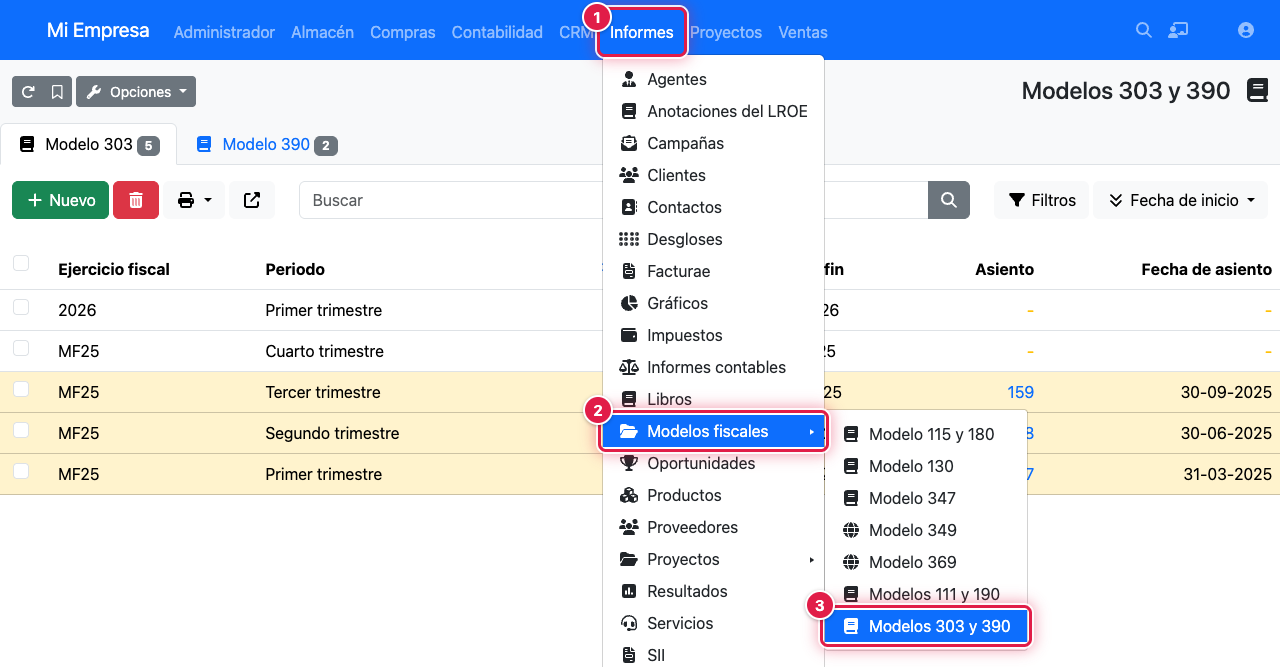
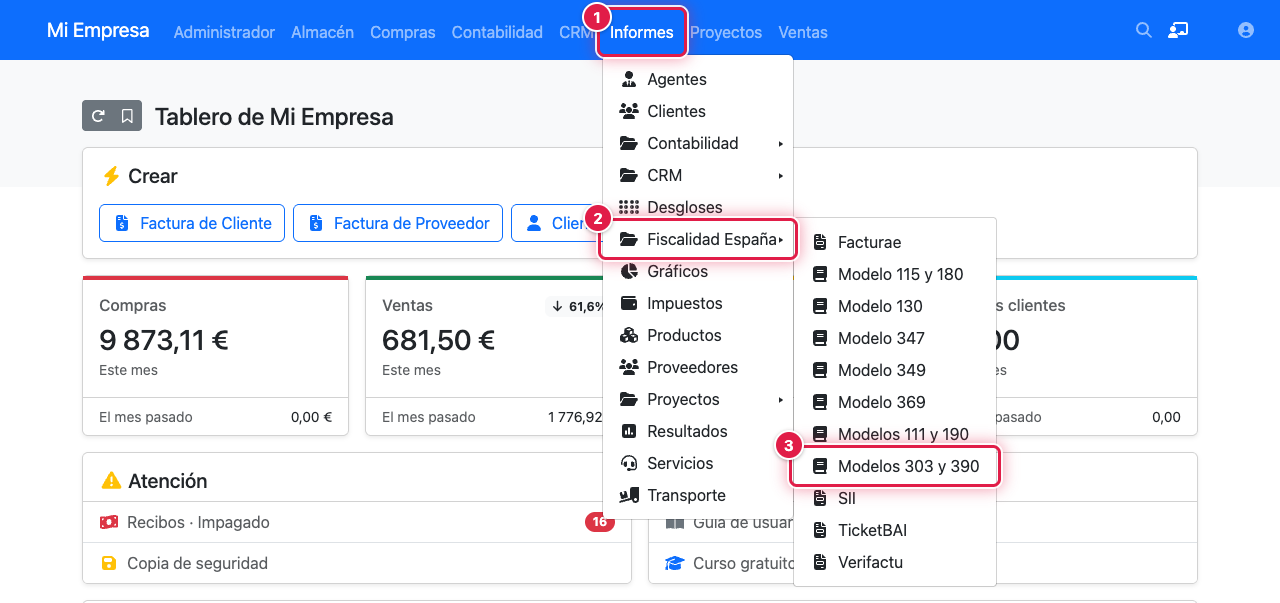
fix(modelo303): mover el informe al submenú Fiscalidad España
- Los controladores de listado y de edición cuelgan del submenú taxation-spain en lugar de tax-models.
- Se añade la traducción taxation-spain (Fiscalidad España) a es_ES.
- README, documentación de usuario, de desarrollo y de contexto nombran la nueva ruta: Informes → Fiscalidad España → Modelos 303 y 390.
- Se regeneran las tres capturas del menú y se añaden sus escenarios capturas.json.

diff --git a/Controller/ListRegularizacionImpuesto.php b/Controller/ListRegularizacionImpuesto.php
@@ -32,7 +32,7 @@ use FacturaScripts\Core\Where;
 class ListRegularizacionImpuesto extends ListController
 {
     /**
-     * Datos de la página: cuelga del menú Informes, en el submenú de modelos fiscales.
+     * Datos de la página: cuelga del menú Informes, en el submenú Fiscalidad España.
      *
      * @return array
      */
@@ -40,7 +40,7 @@ class ListRegularizacionImpuesto extends ListController
     {
         $data = parent::getPageData();
         $data['menu'] = 'reports';
-        $data['submenu'] = 'tax-models';
+        $data['submenu'] = 'taxation-spain';
         $data['title'] = 'model-303-390';
         $data['icon'] = 'fa-solid fa-book';
         return $data;

diff --git a/Controller/EditRegularizacionImpuesto.php b/Controller/EditRegularizacionImpuesto.php
@@ -85,7 +85,7 @@ class EditRegularizacionImpuesto extends EditController
     {
         $data = parent::getPageData();
         $data['menu'] = 'reports';
-        $data['submenu'] = 'tax-models';
+        $data['submenu'] = 'taxation-spain';
         $data['title'] = $this->annualTitle ? 'model-390' : 'model-303';
         $data['icon'] = 'fa-solid fa-balance-scale-right';
         return $data;

diff --git a/Doc/Dev/estructura-del-plugin-modelo-303.md b/Doc/Dev/estructura-del-plugin-modelo-303.md
@@ -1,6 +1,6 @@
 El plugin Modelo303 calcula las casillas del modelo 303 (autoliquidación trimestral o mensual del IVA) y del modelo 390 (resumen anual) **a partir de las partidas de los asientos contables**, y las comparte entre la pantalla, los ficheros de la AEAT, la exportación y la API. Esta página explica cómo se reparte el código, qué añade el plugin a la tabla de regularizaciones y cómo usarlo o extenderlo desde otro plugin.
 
-La pantalla está en **menú Informes** → **Modelos fiscales** → **Modelos 303 y 390**: el listado muestra las regularizaciones de IVA y cada una se abre en su ficha. Las trimestrales y mensuales muestran el modelo 303; la anual (periodo `Y`) muestra el modelo 390. El endpoint de solo lectura está explicado en [API REST de los modelos 303 y 390](api-modelo-303-y-390.md).
+La pantalla está en **menú Informes** → **Fiscalidad España** → **Modelos 303 y 390**: el listado muestra las regularizaciones de IVA y cada una se abre en su ficha. Las trimestrales y mensuales muestran el modelo 303; la anual (periodo `Y`) muestra el modelo 390. El endpoint de solo lectura está explicado en [API REST de los modelos 303 y 390](api-modelo-303-y-390.md).
 
 ## 1. Piezas del plugin
 
@@ -63,7 +63,7 @@ El controlador nombra los ficheros `<NIF>_<año>_<periodo>.303` y `<NIF>_<año>_
 
 ## 3. El controlador de la ficha
 
-`FacturaScripts\Plugins\Modelo303\Controller\EditRegularizacionImpuesto` extiende `EditController`, cuelga del menú `reports` y el submenú `tax-models` y trabaja sobre el modelo `RegularizacionImpuesto` del core. En `execPreviousAction()` atiende estas acciones:
+`FacturaScripts\Plugins\Modelo303\Controller\EditRegularizacionImpuesto` extiende `EditController`, cuelga del menú `reports` y el submenú `taxation-spain` y trabaja sobre el modelo `RegularizacionImpuesto` del core. En `execPreviousAction()` atiende estas acciones:
 
 | Acción | Qué hace |
 |---|---|

diff --git a/Doc/Dev/api-modelo-303-y-390.md b/Doc/Dev/api-modelo-303-y-390.md
@@ -1,4 +1,4 @@
-El plugin Modelo303 expone el cálculo de los modelos 303 (autoliquidación trimestral o mensual del IVA) y 390 (resumen anual) en dos endpoints de solo lectura de la API REST: `GET /api/3/modelo303` y `GET /api/3/modelo390`. Calculan con las mismas clases que la pantalla de la regularización y que los ficheros de la AEAT, así que las cifras coinciden con las que se ven en **menú Informes** → **Modelos fiscales** → **Modelos 303 y 390**. No crean asientos, no guardan regularizaciones y no generan ficheros.
+El plugin Modelo303 expone el cálculo de los modelos 303 (autoliquidación trimestral o mensual del IVA) y 390 (resumen anual) en dos endpoints de solo lectura de la API REST: `GET /api/3/modelo303` y `GET /api/3/modelo390`. Calculan con las mismas clases que la pantalla de la regularización y que los ficheros de la AEAT, así que las cifras coinciden con las que se ven en **menú Informes** → **Fiscalidad España** → **Modelos 303 y 390**. No crean asientos, no guardan regularizaciones y no generan ficheros.
 
 Cada endpoint busca la regularización de IVA guardada de la empresa, el ejercicio y el periodo pedidos. Si existe, calcula sobre ella (con sus casillas de introducción manual y sus datos de presentación). Si no existe, calcula sobre una regularización en memoria con las fechas del periodo, que nunca se guarda, y lo avisa en `avisos`. Cómo se calcula cada casilla está en [Cálculos del plugin Modelo 303](../User/calculos-del-plugin-modelo-303.md).
 

diff --git a/Doc/User/modelo-303-para-facturascripts.md b/Doc/User/modelo-303-para-facturascripts.md
@@ -5,10 +5,10 @@ El informe extrae los datos de la **contabilidad**, no de la facturación: todas
 ## 📋 Dónde está
 
 1. Pulsa el menú **Informes**.
-2. Pasa el ratón por **Modelos fiscales**.
+2. Pasa el ratón por **Fiscalidad España**.
 3. Elige **Modelos 303 y 390**.
 
-![Menú Informes con el submenú Modelos fiscales y la opción Modelos 303 y 390 marcada](../Assets/modelo-303-para-facturascripts/01-menu-modelos-303-y-390.png)
+![Menú Informes con el submenú Fiscalidad España y la opción Modelos 303 y 390 marcada](../Assets/modelo-303-para-facturascripts/01-menu-modelos-303-y-390.png)
 
 El listado tiene dos pestañas: **Modelo 303** (1), con las regularizaciones trimestrales y mensuales, y **Modelo 390** (2), con las anuales. El botón **Nuevo** (3) crea una regularización nueva para una empresa, un ejercicio y un periodo. Cada fila enseña el ejercicio, el periodo, las fechas de inicio y de fin y el asiento de la regularización, si ya lo has creado.
 

diff --git a/Doc/User/autoliquidacion-trimestral-modelo-303.md b/Doc/User/autoliquidacion-trimestral-modelo-303.md
@@ -8,10 +8,10 @@ La autoliquidación del IVA (modelo 303) se calcula para un periodo concreto de 
 ## 📋 Crear la autoliquidación
 
 1. Pulsa el menú **Informes**.
-2. Pasa el ratón por **Modelos fiscales**.
+2. Pasa el ratón por **Fiscalidad España**.
 3. Elige **Modelos 303 y 390**.
 
-![Menú Informes con el submenú Modelos fiscales y la opción Modelos 303 y 390 marcada](../Assets/autoliquidacion-trimestral-modelo-303/01-menu-modelos-303-y-390.png)
+![Menú Informes con el submenú Fiscalidad España y la opción Modelos 303 y 390 marcada](../Assets/autoliquidacion-trimestral-modelo-303/01-menu-modelos-303-y-390.png)
 
 Pulsa **Nuevo** y rellena el formulario:
 

diff --git a/Doc/User/autoliquidacion-anual-modelo-390.md b/Doc/User/autoliquidacion-anual-modelo-390.md
@@ -11,10 +11,10 @@ Cuando lo tengas revisado, puedes descargar el fichero para presentarlo en la AE
 ## 📋 Crear la autoliquidación anual
 
 1. Pulsa el menú **Informes**.
-2. Pasa el ratón por **Modelos fiscales**.
+2. Pasa el ratón por **Fiscalidad España**.
 3. Elige **Modelos 303 y 390**.
 
-![Menú Informes con el submenú Modelos fiscales y la opción Modelos 303 y 390 marcada](../Assets/autoliquidacion-anual-modelo-390/01-menu-modelos-303-y-390.png)
+![Menú Informes con el submenú Fiscalidad España y la opción Modelos 303 y 390 marcada](../Assets/autoliquidacion-anual-modelo-390/01-menu-modelos-303-y-390.png)
 
 Ahora crea el informe anual:
 

diff --git a/README.md b/README.md
@@ -15,7 +15,7 @@ Calcula automáticamente el IVA soportado y el repercutido a partir de la contab
 - Exporta el informe a **PDF y Excel**.
 
 ## Uso
-1. Instala el plugin y ve al menú **Informes → Modelo 303 y 390**.
+1. Instala el plugin y ve al menú **Informes → Fiscalidad España → Modelos 303 y 390**.
 2. Pulsa **Nuevo**, selecciona la empresa, el ejercicio y el periodo (trimestre para el 303, o la pestaña Modelo 390 para el resumen anual) y guarda.
 3. Revisa el resumen y el desglose de compras y ventas, y en la pestaña **Asiento** pulsa **Crear Asiento Contable** para generar el asiento del pago a Hacienda.
 

diff --git a/Doc/User/vincular-un-asiento-manual-a-la-regularizacion.md b/Doc/User/vincular-un-asiento-manual-a-la-regularizacion.md
@@ -12,7 +12,7 @@ Vincularlo importa porque los asientos de regularización no cuentan como IVA en
 
 ## 🔗 Vincular el asiento
 
-1. Abre la regularización desde **menú Informes** → **Modelos fiscales** → **Modelos 303 y 390**.
+1. Abre la regularización desde **menú Informes** → **Fiscalidad España** → **Modelos 303 y 390**.
 2. Pulsa la pestaña **Asiento**.
 3. Pulsa **Vincular asiento**. Si no hay asiento, esta pestaña ofrece también **Crear Asiento Contable**, que genera uno nuevo.
 
